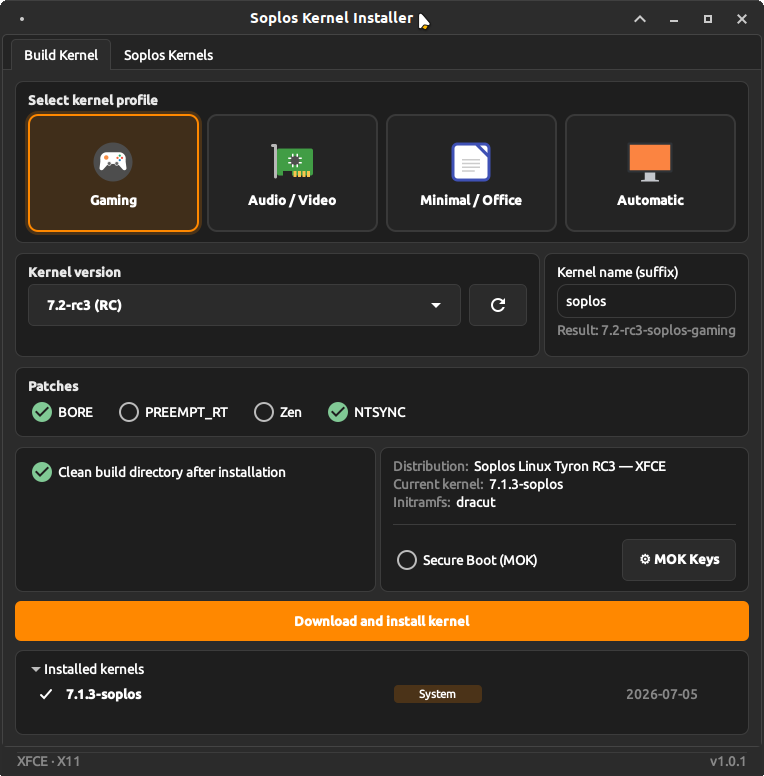
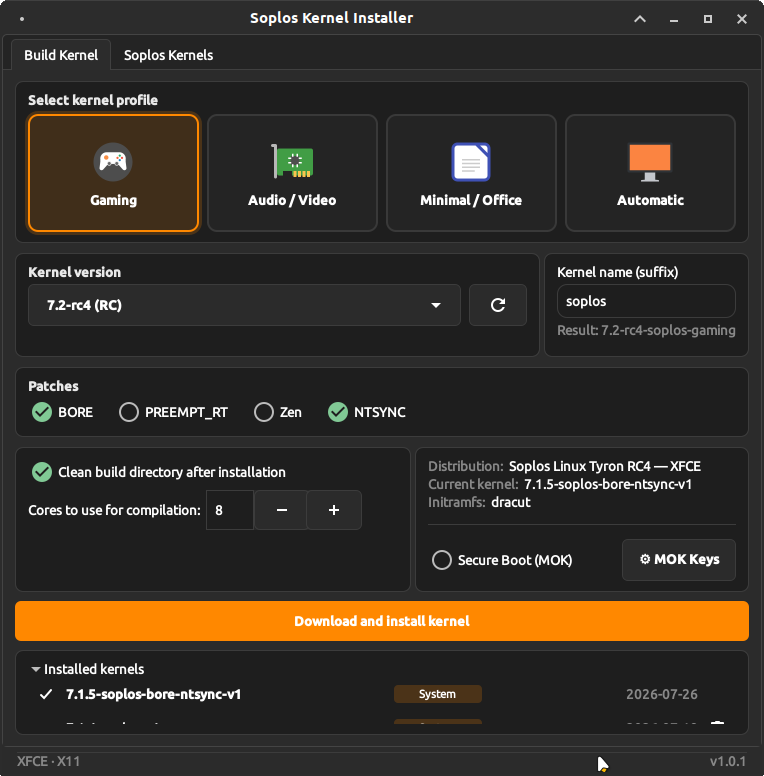
Update kernel installer release docs

diff --git a/js/lang/lang-wiki-ru.js b/js/lang/lang-wiki-ru.js
@@ -5067,6 +5067,12 @@ Object.assign(window.LANG_RU, {
     "ki-rel-hero-title": "Soplos Kernel Installer",
     "ki-rel-hero-subtitle": "Компилятор пользовательских ядер Linux и установщик предсобранных ядер для Soplos Linux — компилируйте собственное ядро с патчами BORE, Zen, NTSYNC и PREEMPT_RT или устанавливайте готовые ядра Soplos из официального репозитория.",
 
+    "ki-rel-101r7-title": "1.0.1-7 — Июль 2026",
+    "ki-rel-101r7-subtitle": "Добавлен селектор числа ядер на вкладке компиляции; вкладка Kernels Soplos получила выпадающие фильтры по профилю и версии; исправлены пустые подписи кнопок при смене фильтра и визуальная граница строки фильтров.",
+    "ki-rel-101r7-fixed-li1": "<strong>Смена фильтра оставляла кнопки Установить/Удалить без подписи:</strong> Смена фильтра на вкладке Kernels Soplos оставляла кнопки без текста до тех пор, пока что-то другое (например, клик «Обновить») не запускало полную перерисовку — <code>_rebuild_kernels_list()</code> пересоздаёт кнопки без подписи, и только <code>_refresh_soplos_kernels_tab()</code> её задаёт. Теперь смена фильтра запускает обе функции.",
+    "ki-rel-101r7-fixed-li2": "<strong>Строка фильтров визуально сливалась со списком ядер:</strong> Строка фильтров не имела чёткой визуальной границы со списком ниже — разделитель в один пиксель внутри карточки был почти незаметен в тёмной теме. Строка фильтров теперь помещена в собственную карточку, следуя тому же визуальному паттерну, что и карточки состояния репозитория и списка ядер.",
+    "ki-rel-101r7-added-li1": "<strong>Селектор числа ядер:</strong> На вкладке «Компилировать ядро» теперь есть числовое поле («Ядер для компиляции») рядом с флажком очистки, по умолчанию — все доступные логические ядра. Доступно как для обычных профилей, так и для режима Stock/разработчик. Выбранное значение передаётся через <code>full_install()</code> в <code>installer.build()</code>, где <code>make -j{n}</code> использует его вместо автоопределения.",
+    "ki-rel-101r7-added-li2": "<strong>Вкладка Kernels Soplos: фильтры по профилю и версии:</strong> Два выпадающих списка («Профиль» и «Версия») над списком ядер, динамически заполняемых из пакетов, реально присутствующих в репозитории — так новый тип вроде Zen появляется сам по себе, без жёстко прописанных значений. Поддерживает фильтрацию по профилю, по уровню march (V1–V4) или обоим одновременно.",
     "ki-rel-101r6-title": "1.0.1-6 — Июль 2026",
     "ki-rel-101r6-subtitle": "Выбор источника патчей для BORE и Zen усилен проверкой dry-run перед принятием; альтернативный планировщик Zen (PDS) теперь корректно включается при сборке; добавлены новые резервные источники для BORE и Zen.",
     "ki-rel-101r6-fixed-li1": "<strong>Выбор источника патчей BORE/Zen:</strong> Источник патчей мог успешно загрузиться и всё равно не применяться к текущей точечной версии ядра — ошибка возникала лишь на этапе <code>patch</code>, слишком поздно для отката. Загруженные кандидаты теперь проверяются через <code>patch --dry-run</code> на распакованном дереве ядра перед принятием; если источник не проходит проверку, автоматически пробуется следующий в цепочке.",

diff --git a/wiki/releases/soplos-kernel-installer/index.html b/wiki/releases/soplos-kernel-installer/index.html
@@ -127,6 +127,7 @@
                     <aside class="toc">
                         <h3 id="rel-toc-title">Versions</h3>
                         <ul>
+                            <li><a href="#v101r7" class="toc-link">1.0.1-7 <span class="toc-date">— 2026-07-26</span></a></li>
                             <li><a href="#v101r6" class="toc-link">1.0.1-6 <span class="toc-date">— 2026-07-26</span></a></li>
                             <li><a href="#v101r5" class="toc-link">1.0.1-5 <span class="toc-date">— 2026-07-22</span></a></li>
                             <li><a href="#v101r4" class="toc-link">1.0.1-4 <span class="toc-date">— 2026-07-20</span></a></li>
@@ -143,6 +144,30 @@
                     </aside>
 
                     <article class="main-content">
+
+                        <!-- 1.0.1-7 -->
+                        <section id="v101r7" class="content-section">
+                            <h2><i class="fas fa-tag"></i> <span id="ki-rel-101r7-title">1.0.1-7 — July 2026</span></h2>
+                            <p id="ki-rel-101r7-subtitle" class="lead">Compile-tab core count selector added; Soplos Kernels tab gains profile and version filter dropdowns; filter button-label blank and filter-row boundary glitches fixed.</p>
+
+                            <div class="subsection-header">
+                                <h3><i class="fas fa-bug"></i> <span data-i18n="rel-label-fixed">Fixed</span></h3>
+                                <div class="accent-hr"></div>
+                            </div>
+                            <ul>
+                                <li id="ki-rel-101r7-fixed-li1"><strong>Filter changes left Install/Remove buttons blank:</strong> Changing a filter in the Soplos Kernels tab left the Install/Remove buttons without a label until something else (e.g. clicking Refresh) triggered a full re-render — <code>_rebuild_kernels_list()</code> recreates buttons without a label, and only <code>_refresh_soplos_kernels_tab()</code> actually sets it. Filter changes now trigger both.</li>
+                                <li id="ki-rel-101r7-fixed-li2"><strong>Filter row visually stuck to kernel list:</strong> The filter row had no clear visual boundary from the kernel list beneath it — the single-pixel in-card separator was barely noticeable on the dark theme. The filter row is now inside its own card, matching the visual pattern of the repository-status and kernel-list cards.</li>
+                            </ul>
+
+                            <div class="subsection-header">
+                                <h3><i class="fas fa-plus-circle"></i> <span data-i18n="rel-label-added">Added</span></h3>
+                                <div class="accent-hr"></div>
+                            </div>
+                            <ul>
+                                <li id="ki-rel-101r7-added-li1"><strong>Core count selector:</strong> The "Compile kernel" tab now has a spin button ("Cores to use for compilation") next to the cleanup checkbox, defaulting to all logical cores. Available for both regular profiles and Stock/developer mode. The chosen value is threaded through <code>full_install()</code> to <code>installer.build()</code>, where <code>make -j{n}</code> uses it instead of always auto-detecting.</li>
+                                <li id="ki-rel-101r7-added-li2"><strong>Soplos Kernels tab: profile and version filters:</strong> Two dropdowns ("Profile" and "Version") above the kernel list, populated dynamically from the packages actually present in the repository — so a newly published flavor like Zen appears on its own without anything hardcoded. Supports filtering by profile, by march level (V1–V4), or both simultaneously.</li>
+                            </ul>
+                        </section>
 
                         <!-- 1.0.1-5 -->
                         <!-- 1.0.1-6 -->

diff --git a/js/lang/lang-wiki-fr.js b/js/lang/lang-wiki-fr.js
@@ -5057,6 +5057,12 @@ Object.assign(window.LANG_FR, {
     "ki-rel-hero-title": "Soplos Kernel Installer",
     "ki-rel-hero-subtitle": "Compilateur de noyaux Linux personnalisés et installateur de noyaux précompilés pour Soplos Linux — compilez votre propre noyau avec les patches BORE, Zen, NTSYNC et PREEMPT_RT, ou installez des noyaux Soplos prêts à l'emploi depuis le dépôt officiel.",
 
+    "ki-rel-101r7-title": "1.0.1-7 — Juillet 2026",
+    "ki-rel-101r7-subtitle": "Sélecteur du nombre de cœurs ajouté dans l'onglet de compilation ; l'onglet Kernels Soplos intègre des filtres de profil et de version ; corrections du libellé manquant sur les boutons lors d'un changement de filtre et de la limite visuelle de la ligne de filtres.",
+    "ki-rel-101r7-fixed-li1": "<strong>Les changements de filtre laissaient les boutons Installer/Supprimer sans libellé :</strong> Changer un filtre dans l'onglet Kernels Soplos laissait les boutons sans texte jusqu'à ce qu'autre chose (p. ex. cliquer sur Actualiser) déclenche un re-rendu complet — <code>_rebuild_kernels_list()</code> recrée les boutons sans libellé, et seul <code>_refresh_soplos_kernels_tab()</code> le définit. Les changements de filtre déclenchent désormais les deux fonctions.",
+    "ki-rel-101r7-fixed-li2": "<strong>La ligne de filtres collait visuellement à la liste de kernels :</strong> La ligne de filtres n'avait pas de frontière visuelle claire avec la liste en dessous — le séparateur d'un pixel à l'intérieur de la carte était à peine visible sur le thème sombre. La ligne de filtres est maintenant dans sa propre carte, suivant le même schéma visuel que les cartes d'état du dépôt et de la liste de kernels.",
+    "ki-rel-101r7-added-li1": "<strong>Sélecteur du nombre de cœurs :</strong> L'onglet \"Compiler le kernel\" dispose désormais d'un champ numérique (\"Cœurs pour la compilation\") à côté de la case de nettoyage, avec pour valeur par défaut tous les cœurs logiques disponibles. Accessible pour les profils normaux et en mode Stock/développeur. La valeur choisie est transmise via <code>full_install()</code> jusqu'à <code>installer.build()</code>, où <code>make -j{n}</code> l'utilise au lieu de la détecter automatiquement.",
+    "ki-rel-101r7-added-li2": "<strong>Onglet Kernels Soplos : filtres de profil et de version :</strong> Deux listes déroulantes (\"Profil\" et \"Version\") au-dessus de la liste de kernels, alimentées dynamiquement par les paquets réellement présents dans le dépôt — ainsi un nouveau type comme Zen apparaît seul, sans rien d'inscrit en dur. Permet de filtrer par profil, par niveau de marche (V1–V4) ou les deux simultanément.",
     "ki-rel-101r6-title": "1.0.1-6 — Juillet 2026",
     "ki-rel-101r6-subtitle": "Sélection des sources de patches BORE et Zen renforcée par une vérification dry-run avant acceptation ; le planificateur alternatif de Zen (PDS) est maintenant correctement activé à la compilation ; nouvelles sources de secours ajoutées pour BORE et Zen.",
     "ki-rel-101r6-fixed-li1": "<strong>Sélection des sources de patches BORE/Zen :</strong> Une source pouvait se télécharger correctement mais échouer à s'appliquer sur la version point du noyau actuel — l'échec ne survenait qu'à l'étape réelle de <code>patch</code>, trop tard pour basculer sur une autre source. Les candidats téléchargés sont maintenant vérifiés avec <code>patch --dry-run</code> contre l'arbre du noyau extrait avant d'être acceptés ; si une source se télécharge correctement mais ne s'applique pas, la suivante est essayée automatiquement au lieu d'abandonner la compilation.",

diff --git a/js/lang/lang-wiki-es.js b/js/lang/lang-wiki-es.js
@@ -5065,6 +5065,12 @@ Object.assign(window.LANG_ES, {
     "ki-rel-hero-title": "Soplos Kernel Installer",
     "ki-rel-hero-subtitle": "Compilador de kernels Linux personalizados e instalador de kernels precompilados para Soplos Linux — compila tu propio kernel con parches BORE, Zen, NTSYNC y PREEMPT_RT, o instala kernels Soplos listos para usar desde el repositorio oficial.",
 
+    "ki-rel-101r7-title": "1.0.1-7 — Julio 2026",
+    "ki-rel-101r7-subtitle": "Selector de número de núcleos en la pestaña de compilación; la pestaña Kernels Soplos incorpora filtros de perfil y versión; corregidos el botón sin etiqueta al cambiar filtro y el borde visual de la fila de filtros.",
+    "ki-rel-101r7-fixed-li1": "<strong>Cambiar un filtro dejaba los botones Instalar/Eliminar sin etiqueta:</strong> Cambiar un filtro en la pestaña Kernels Soplos dejaba los botones sin texto hasta que algo más (p. ej. pulsar Actualizar) disparaba un re-renderizado completo — <code>_rebuild_kernels_list()</code> recrea los botones sin etiqueta, y solo <code>_refresh_soplos_kernels_tab()</code> la asigna. Ahora los cambios de filtro disparan ambas funciones.",
+    "ki-rel-101r7-fixed-li2": "<strong>La fila de filtros quedaba pegada visualmente a la lista de kernels:</strong> La fila de filtros no tenía un límite visual claro respecto a la lista inferior — el separador de un píxel dentro de la tarjeta apenas se apreciaba en el tema oscuro. La fila de filtros se encuentra ahora en su propia tarjeta, siguiendo el mismo patrón visual que las tarjetas de estado del repositorio y de la lista de kernels.",
+    "ki-rel-101r7-added-li1": "<strong>Selector de número de núcleos:</strong> La pestaña \"Compilar kernel\" tiene ahora un campo numérico (\"Núcleos para la compilación\") junto a la casilla de limpieza, con valor predeterminado de todos los núcleos lógicos disponibles. Accesible tanto en perfiles normales como en modo Stock/desarrollador. El valor elegido se pasa a través de <code>full_install()</code> hasta <code>installer.build()</code>, donde <code>make -j{n}</code> lo utiliza en lugar de detectarlo automáticamente.",
+    "ki-rel-101r7-added-li2": "<strong>Pestaña Kernels Soplos: filtros de perfil y versión:</strong> Dos menús desplegables (\"Perfil\" y \"Versión\") sobre la lista de kernels, poblados dinámicamente con los paquetes presentes en el repositorio — así un nuevo tipo como Zen aparece solo, sin necesidad de hardcodear nada. Permite filtrar por perfil, por nivel de marcha (V1–V4) o por ambos a la vez.",
     "ki-rel-101r6-title": "1.0.1-6 — Julio 2026",
     "ki-rel-101r6-subtitle": "Selección de fuentes de parches BORE y Zen reforzada con verificación dry-run antes de aceptarlos; el planificador alternativo de Zen (PDS) ahora se activa correctamente en tiempo de compilación; nuevas fuentes de respaldo añadidas para BORE y Zen.",
     "ki-rel-101r6-fixed-li1": "<strong>Selección de fuentes de parches BORE/Zen:</strong> Una fuente podía descargarse correctamente y aun así fallar al aplicarse sobre el punto de versión del kernel actual — el fallo solo afloraba durante el paso real de <code>patch</code>, cuando ya era tarde para recurrir a otra fuente. Los candidatos descargados se verifican ahora con <code>patch --dry-run</code> contra el árbol del kernel extraído antes de aceptarlos; si una fuente descarga bien pero no aplica, se prueba automáticamente la siguiente en lugar de abortar la compilación.",

diff --git a/js/lang/lang-wiki-de.js b/js/lang/lang-wiki-de.js
@@ -5065,6 +5065,12 @@ Object.assign(window.LANG_DE, {
     "ki-rel-hero-title": "Soplos Kernel Installer",
     "ki-rel-hero-subtitle": "Benutzerdefinierter Linux-Kernel-Compiler und vorkompilierter Kernel-Installer für Soplos Linux — kompilieren Sie Ihren eigenen Kernel mit BORE-, Zen-, NTSYNC- und PREEMPT_RT-Patches oder installieren Sie gebrauchsfertige Soplos-Kernel aus dem offiziellen Repository.",
 
+    "ki-rel-101r7-title": "1.0.1-7 — Juli 2026",
+    "ki-rel-101r7-subtitle": "Kern-Anzahl-Selektor im Kompilier-Tab hinzugefügt; Soplos-Kernels-Tab erhält Profil- und Versionsfilter-Dropdowns; Schaltflächen-Beschriftung fehlte nach Filteränderung und Filterzeilen-Trennlinie behoben.",
+    "ki-rel-101r7-fixed-li1": "<strong>Filteränderungen ließen die Schaltflächen Installieren/Entfernen ohne Beschriftung:</strong> Das Ändern eines Filters im Soplos-Kernels-Tab ließ die Schaltflächen so lange ohne Text, bis etwas anderes (z. B. Klick auf Aktualisieren) ein vollständiges Re-Rendering auslöste — <code>_rebuild_kernels_list()</code> erstellt Schaltflächen ohne Beschriftung neu, und nur <code>_refresh_soplos_kernels_tab()</code> setzt sie. Filteränderungen lösen jetzt beide Funktionen aus.",
+    "ki-rel-101r7-fixed-li2": "<strong>Filterzeile klebte visuell an der Kernel-Liste:</strong> Die Filterzeile hatte keine klare visuelle Abgrenzung zur darunter liegenden Liste — der Ein-Pixel-Trenner innerhalb der Karte war im dunklen Theme kaum sichtbar. Die Filterzeile befindet sich nun in einer eigenen Karte, die dem visuellen Muster der Repository-Status- und Kernel-Listen-Karten entspricht.",
+    "ki-rel-101r7-added-li1": "<strong>Kern-Anzahl-Selektor:</strong> Der Tab \"Kernel kompilieren\" hat jetzt ein Zahlenfeld (\"Kerne für die Kompilierung\") neben der Bereinigungsoption, das standardmäßig alle verfügbaren logischen Kerne verwendet. Verfügbar sowohl für reguläre Profile als auch für den Stock-/Entwicklermodus. Der gewählte Wert wird über <code>full_install()</code> bis <code>installer.build()</code> durchgereicht, wo <code>make -j{n}</code> ihn statt der automatischen Erkennung nutzt.",
+    "ki-rel-101r7-added-li2": "<strong>Soplos-Kernels-Tab: Profil- und Versionsfilter:</strong> Zwei Dropdowns (\"Profil\" und \"Version\") oberhalb der Kernel-Liste, dynamisch aus den tatsächlich im Repository vorhandenen Paketen befüllt — so erscheint ein neu veröffentlichter Typ wie Zen von selbst, ohne dass etwas fest einprogrammiert werden muss. Unterstützt Filterung nach Profil, nach March-Level (V1–V4) oder beidem gleichzeitig.",
     "ki-rel-101r6-title": "1.0.1-6 — Juli 2026",
     "ki-rel-101r6-subtitle": "Auswahl der Patch-Quellen für BORE und Zen durch Dry-Run-Verifizierung vor Annahme gehärtet; Zens alternativer Scheduler (PDS) wird jetzt beim Build korrekt aktiviert; neue Fallback-Quellen für BORE und Zen hinzugefügt.",
     "ki-rel-101r6-fixed-li1": "<strong>Patch-Quellenauswahl für BORE/Zen:</strong> Eine Patch-Quelle konnte erfolgreich heruntergeladen werden und trotzdem beim Anwenden auf die aktuelle Kernel-Punktversion scheitern — der Fehler trat erst beim eigentlichen <code>patch</code>-Schritt auf, zu spät für einen Fallback. Heruntergeladene Kandidaten werden nun mit <code>patch --dry-run</code> gegen den extrahierten Kernel-Baum geprüft, bevor sie akzeptiert werden; schlägt eine Quelle beim Anwenden fehl, wird automatisch die nächste in der Kette versucht.",

diff --git a/js/lang/lang-wiki-ro.js b/js/lang/lang-wiki-ro.js
@@ -5064,6 +5064,12 @@ Object.assign(window.LANG_RO, {
     "ki-rel-hero-title": "Soplos Kernel Installer",
     "ki-rel-hero-subtitle": "Compilator de kerneluri Linux personalizate și instalator de kerneluri precompilate pentru Soplos Linux — compilați propriul kernel cu patch-uri BORE, Zen, NTSYNC și PREEMPT_RT, sau instalați kerneluri Soplos gata de utilizat din depozitul oficial.",
 
+    "ki-rel-101r7-title": "1.0.1-7 — Iulie 2026",
+    "ki-rel-101r7-subtitle": "Selector pentru numărul de nuclee adăugat în fila de compilare; fila Kernels Soplos primește meniuri derulante pentru filtrarea după profil și versiune; corectate lipsa etichetei pe butoane la schimbarea filtrului și marginea vizuală a rândului de filtre.",
+    "ki-rel-101r7-fixed-li1": "<strong>Schimbarea unui filtru lăsa butoanele Instalare/Eliminare fără etichetă:</strong> Schimbarea unui filtru în fila Kernels Soplos lăsa butoanele fără text până când altceva (ex. clic pe Reîmprospătare) declanșa o re-randare completă — <code>_rebuild_kernels_list()</code> recreează butoanele fără etichetă, iar numai <code>_refresh_soplos_kernels_tab()</code> o setează. Schimbările de filtru declanșează acum ambele funcții.",
+    "ki-rel-101r7-fixed-li2": "<strong>Rândul de filtre era vizual lipit de lista de kernels:</strong> Rândul de filtre nu avea o delimitare vizuală clară față de lista de dedesubt — separatorul de un pixel din interiorul cardului era abia vizibil pe tema întunecată. Rândul de filtre se află acum în propriul card, urmând același tipar vizual ca și cardurile de stare a depozitului și de listă a kernelurilor.",
+    "ki-rel-101r7-added-li1": "<strong>Selector pentru numărul de nuclee:</strong> Fila \"Compilare kernel\" dispune acum de un câmp numeric (\"Nuclee pentru compilare\") lângă caseta de curățare, cu valoarea implicită a tuturor nucleelor logice disponibile. Accesibil atât pentru profiluri normale, cât și pentru modul Stock/dezvoltator. Valoarea aleasă este transmisă prin <code>full_install()</code> până la <code>installer.build()</code>, unde <code>make -j{n}</code> o folosește în loc de detectarea automată.",
+    "ki-rel-101r7-added-li2": "<strong>Fila Kernels Soplos: filtre de profil și versiune:</strong> Două meniuri derulante (\"Profil\" și \"Versiune\") deasupra listei de kerneluri, populate dinamic din pachetele prezente în depozit — astfel un tip nou ca Zen apare de la sine, fără nimic hardcodat. Acceptă filtrarea după profil, după nivelul de marșarier (V1–V4) sau ambele simultan.",
     "ki-rel-101r6-title": "1.0.1-6 — Iulie 2026",
     "ki-rel-101r6-subtitle": "Selecția sursei de patch-uri pentru BORE și Zen consolidată cu verificare dry-run înainte de acceptare; scheduler-ul alternativ al lui Zen (PDS) activat acum corect la compilare; noi surse de rezervă adăugate pentru BORE și Zen.",
     "ki-rel-101r6-fixed-li1": "<strong>Selecția sursei de patch-uri BORE/Zen:</strong> O sursă de patch-uri putea fi descărcată cu succes și totuși să eșueze la aplicare față de versiunea point release curentă a kernel-ului — eroarea apărea abia la pasul real <code>patch</code>, prea târziu pentru un fallback. Candidații descărcați sunt acum verificați cu <code>patch --dry-run</code> față de arborele kernel extras înainte de acceptare; dacă o sursă eșuează la aplicare, este automat încercată următoarea din lanț.",

diff --git a/js/lang/lang-wiki-pt.js b/js/lang/lang-wiki-pt.js
@@ -5057,6 +5057,12 @@ Object.assign(window.LANG_PT, {
     "ki-rel-hero-title": "Soplos Kernel Installer",
     "ki-rel-hero-subtitle": "Compilador de kernels Linux personalizados e instalador de kernels pré-compilados para Soplos Linux — compile o seu próprio kernel com patches BORE, Zen, NTSYNC e PREEMPT_RT, ou instale kernels Soplos prontos a usar a partir do repositório oficial.",
 
+    "ki-rel-101r7-title": "1.0.1-7 — Julho 2026",
+    "ki-rel-101r7-subtitle": "Seletor de número de núcleos adicionado na aba de compilação; aba Kernels Soplos ganha filtros de perfil e versão; corrigidos o rótulo em branco nos botões ao mudar filtro e o limite visual da linha de filtros.",
+    "ki-rel-101r7-fixed-li1": "<strong>Mudar um filtro deixava os botões Instalar/Remover sem rótulo:</strong> Mudar um filtro na aba Kernels Soplos deixava os botões sem texto até que outra coisa (p. ex. clicar em Atualizar) disparasse um re-renderização completo — <code>_rebuild_kernels_list()</code> recria os botões sem rótulo, e somente <code>_refresh_soplos_kernels_tab()</code> o define. Agora as mudanças de filtro disparam as duas funções.",
+    "ki-rel-101r7-fixed-li2": "<strong>Linha de filtros visualmente colada à lista de kernels:</strong> A linha de filtros não tinha um limite visual claro em relação à lista abaixo — o separador de um pixel dentro do cartão mal se notava no tema escuro. A linha de filtros está agora no seu próprio cartão, seguindo o mesmo padrão visual dos cartões de estado do repositório e da lista de kernels.",
+    "ki-rel-101r7-added-li1": "<strong>Seletor de número de núcleos:</strong> A aba \"Compilar kernel\" tem agora um campo numérico (\"Núcleos para a compilação\") ao lado da caixa de limpeza, com valor padrão de todos os núcleos lógicos disponíveis. Acessível tanto para perfis normais quanto para o modo Stock/desenvolvedor. O valor escolhido é repassado via <code>full_install()</code> até <code>installer.build()</code>, onde <code>make -j{n}</code> o usa em vez de detectar automaticamente.",
+    "ki-rel-101r7-added-li2": "<strong>Aba Kernels Soplos: filtros de perfil e versão:</strong> Dois menus suspensos (\"Perfil\" e \"Versão\") acima da lista de kernels, preenchidos dinamicamente com os pacotes presentes no repositório — assim um novo tipo como Zen aparece por conta própria, sem nada fixo no código. Permite filtrar por perfil, por nível de marcha (V1–V4) ou ambos simultaneamente.",
     "ki-rel-101r6-title": "1.0.1-6 — Julho 2026",
     "ki-rel-101r6-subtitle": "Seleção de fontes de patches BORE e Zen reforçada com verificação dry-run antes da aceitação; o escalonador alternativo do Zen (PDS) agora é corretamente ativado em tempo de compilação; novas fontes de fallback adicionadas para BORE e Zen.",
     "ki-rel-101r6-fixed-li1": "<strong>Seleção de fontes de patches BORE/Zen:</strong> Uma fonte podia ser descarregada com sucesso e ainda assim falhar ao ser aplicada contra a versão ponto atual do kernel — o falhanço só aparecia durante o passo real de <code>patch</code>, quando já era tarde para recorrer a outra fonte. Os candidatos descarregados são agora verificados com <code>patch --dry-run</code> contra a árvore do kernel extraída antes de serem aceites; se uma fonte descarrega corretamente mas não se aplica, a seguinte é tentada automaticamente em vez de abortar a compilação.",

diff --git a/js/lang/lang-wiki-it.js b/js/lang/lang-wiki-it.js
@@ -5062,6 +5062,12 @@ Object.assign(window.LANG_IT, {
     "ki-rel-hero-title": "Soplos Kernel Installer",
     "ki-rel-hero-subtitle": "Compilatore di kernel Linux personalizzati e installatore di kernel precompilati per Soplos Linux — compila il tuo kernel con patch BORE, Zen, NTSYNC e PREEMPT_RT, o installa kernel Soplos pronti all'uso dal repository ufficiale.",
 
+    "ki-rel-101r7-title": "1.0.1-7 — Luglio 2026",
+    "ki-rel-101r7-subtitle": "Selettore del numero di core aggiunto nella scheda di compilazione; la scheda Kernels Soplos ottiene i menu a tendina di filtro per profilo e versione; corretti il tasto senza etichetta al cambio filtro e il bordo visivo della riga dei filtri.",
+    "ki-rel-101r7-fixed-li1": "<strong>I cambi di filtro lasciavano i pulsanti Installa/Rimuovi senza etichetta:</strong> Cambiare un filtro nella scheda Kernels Soplos lasciava i pulsanti senza testo finché qualcos'altro (es. cliccare Aggiorna) non attivava un re-rendering completo — <code>_rebuild_kernels_list()</code> ricrea i pulsanti senza etichetta, e solo <code>_refresh_soplos_kernels_tab()</code> la imposta. I cambi di filtro attivano ora entrambe le funzioni.",
+    "ki-rel-101r7-fixed-li2": "<strong>La riga dei filtri era visivamente attaccata alla lista di kernel:</strong> La riga dei filtri non aveva un confine visivo chiaro dalla lista sottostante — il separatore di un pixel all'interno della scheda era appena visibile sul tema scuro. La riga dei filtri si trova ora nella propria scheda, seguendo lo stesso schema visivo delle schede stato repository e lista kernel.",
+    "ki-rel-101r7-added-li1": "<strong>Selettore del numero di core:</strong> La scheda \"Compila kernel\" ha ora un campo numerico (\"Core per la compilazione\") accanto alla casella di pulizia, con valore predefinito di tutti i core logici disponibili. Accessibile sia per i profili normali che per la modalità Stock/sviluppatore. Il valore scelto viene passato attraverso <code>full_install()</code> fino a <code>installer.build()</code>, dove <code>make -j{n}</code> lo usa invece del rilevamento automatico.",
+    "ki-rel-101r7-added-li2": "<strong>Scheda Kernels Soplos: filtri di profilo e versione:</strong> Due menu a tendina (\"Profilo\" e \"Versione\") sopra la lista dei kernel, popolati dinamicamente dai pacchetti presenti nel repository — così un nuovo tipo come Zen appare da solo, senza nulla di hardcoded. Supporta il filtraggio per profilo, per livello di marcia (V1–V4) o entrambi simultaneamente.",
     "ki-rel-101r6-title": "1.0.1-6 — Luglio 2026",
     "ki-rel-101r6-subtitle": "Selezione delle patch source per BORE e Zen irrobustita con verifica dry-run prima dell'accettazione; lo scheduler alternativo di Zen (PDS) ora abilitato correttamente al momento della compilazione; nuove sorgenti di fallback aggiunte per BORE e Zen.",
     "ki-rel-101r6-fixed-li1": "<strong>Selezione patch source BORE/Zen:</strong> Una patch source poteva scaricarsi correttamente e fallire comunque nell'applicazione alla versione point release corrente del kernel — l'errore emergeva solo nel passaggio <code>patch</code> vero e proprio, troppo tardi per un fallback. I candidati scaricati vengono ora verificati con <code>patch --dry-run</code> sull'albero del kernel estratto prima di essere accettati; se una sorgente fallisce nell'applicazione, viene automaticamente tentata la successiva nella catena.",

diff --git a/js/lang/lang-wiki-en.js b/js/lang/lang-wiki-en.js
@@ -5862,6 +5862,12 @@ Object.assign(window.LANG_EN, {
   "ki-rel-hero-title": "Soplos Kernel Installer",
   "ki-rel-hero-subtitle": "Custom Linux kernel builder and pre-built kernel installer for Soplos Linux — compile your own kernel with BORE, Zen, NTSYNC and PREEMPT_RT patches, or install ready-to-use Soplos kernels from the official repository.",
 
+  "ki-rel-101r7-title": "1.0.1-7 — July 2026",
+  "ki-rel-101r7-subtitle": "Compile-tab core count selector added; Soplos Kernels tab gains profile and version filter dropdowns; filter button-label blank and filter-row boundary glitches fixed.",
+  "ki-rel-101r7-fixed-li1": "<strong>Filter changes left Install/Remove buttons blank:</strong> Changing a filter in the Soplos Kernels tab left the Install/Remove buttons without a label until something else (e.g. clicking Refresh) triggered a full re-render — <code>_rebuild_kernels_list()</code> recreates buttons without a label, and only <code>_refresh_soplos_kernels_tab()</code> actually sets it. Filter changes now trigger both.",
+  "ki-rel-101r7-fixed-li2": "<strong>Filter row visually stuck to kernel list:</strong> The filter row had no clear visual boundary from the kernel list beneath it — the single-pixel in-card separator was barely noticeable on the dark theme. The filter row is now inside its own card, matching the visual pattern of the repository-status and kernel-list cards.",
+  "ki-rel-101r7-added-li1": "<strong>Core count selector:</strong> The \"Compile kernel\" tab now has a spin button (\"Cores to use for compilation\") next to the cleanup checkbox, defaulting to all logical cores. Available for both regular profiles and Stock/developer mode. The chosen value is threaded through <code>full_install()</code> to <code>installer.build()</code>, where <code>make -j{n}</code> uses it instead of always auto-detecting.",
+  "ki-rel-101r7-added-li2": "<strong>Soplos Kernels tab: profile and version filters:</strong> Two dropdowns (\"Profile\" and \"Version\") above the kernel list, populated dynamically from the packages actually present in the repository — so a newly published flavor like Zen appears on its own without anything hardcoded. Supports filtering by profile, by march level (V1–V4), or both simultaneously.",
   "ki-rel-101r6-title": "1.0.1-6 — July 2026",
   "ki-rel-101r6-subtitle": "BORE and Zen patch source selection hardened with dry-run verification before acceptance; Zen's alternate scheduler (PDS) now correctly enabled at build time; new fallback sources added for both BORE and Zen.",
   "ki-rel-101r6-fixed-li1": "<strong>BORE/Zen patch source selection:</strong> A patch source could download successfully and still fail to apply against the current kernel point release — the failure only surfaced during the actual <code>patch</code> apply step, by which point it was too late to fall back to another source. Downloaded BORE/Zen candidates are now verified with a <code>patch --dry-run</code> against the extracted kernel tree before being accepted; if a source downloads fine but doesn't apply, the next source in the chain is tried automatically instead of aborting the build.",

diff --git a/wiki/releases/index.html b/wiki/releases/index.html
@@ -205,7 +205,7 @@
                             <h3>Soplos Kernel Installer</h3>
                             <p id="rel-idx-ki-desc">Graphical kernel builder with patch support (BORE, Zen, NTSYNC, RT)
                                 and one-click Soplos kernels.</p>
-                            <span class="release-version-badge">1.0.1-6</span>
+                            <span class="release-version-badge">1.0.1-7</span>
                         </div>
                         <span class="release-card-arrow"><i class="fas fa-chevron-right"></i></span>
                     </a>
